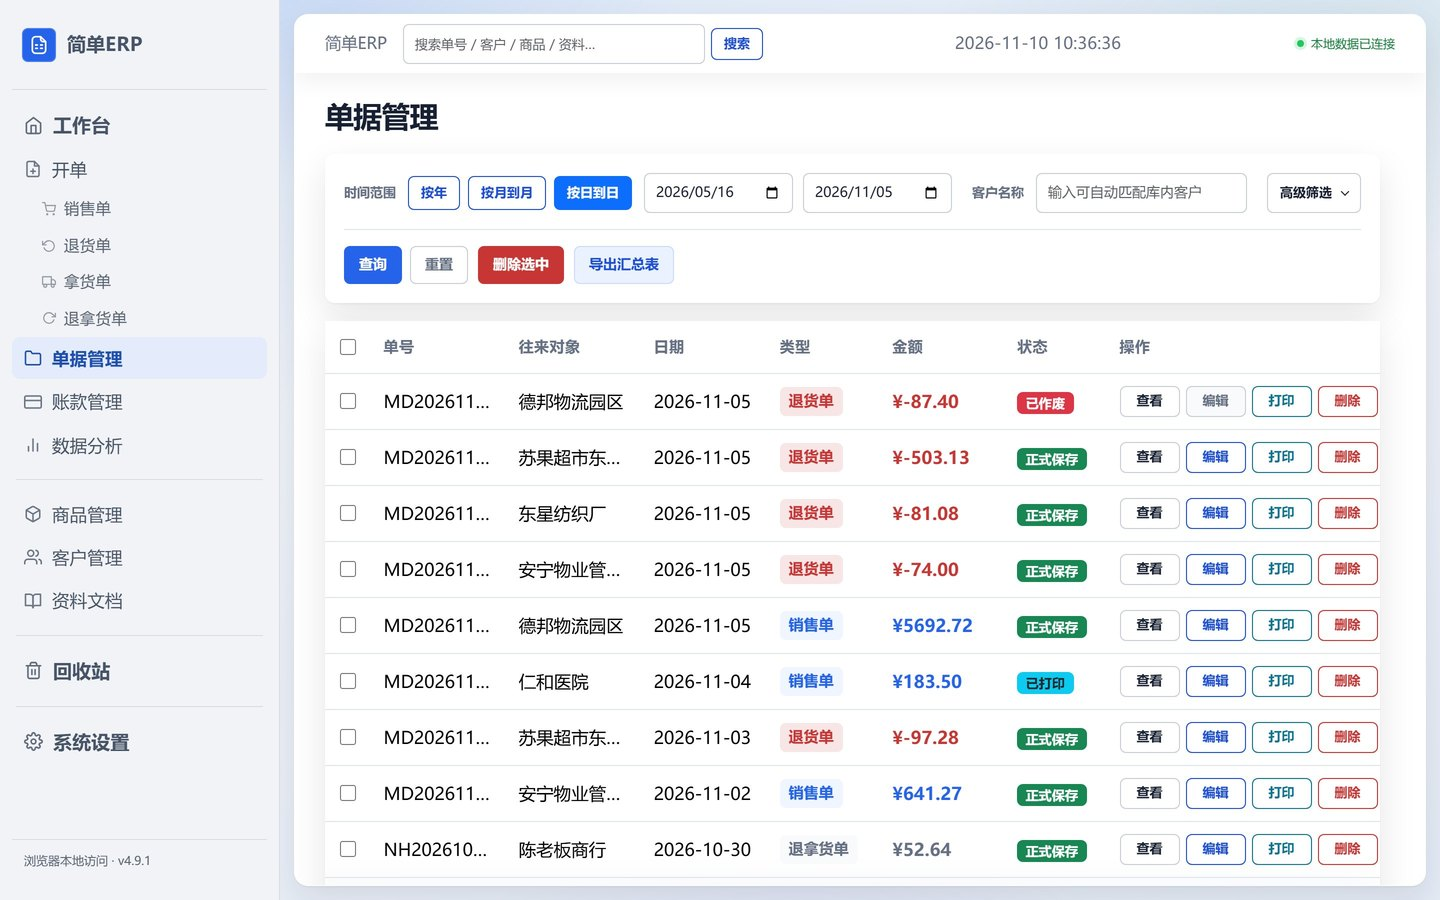
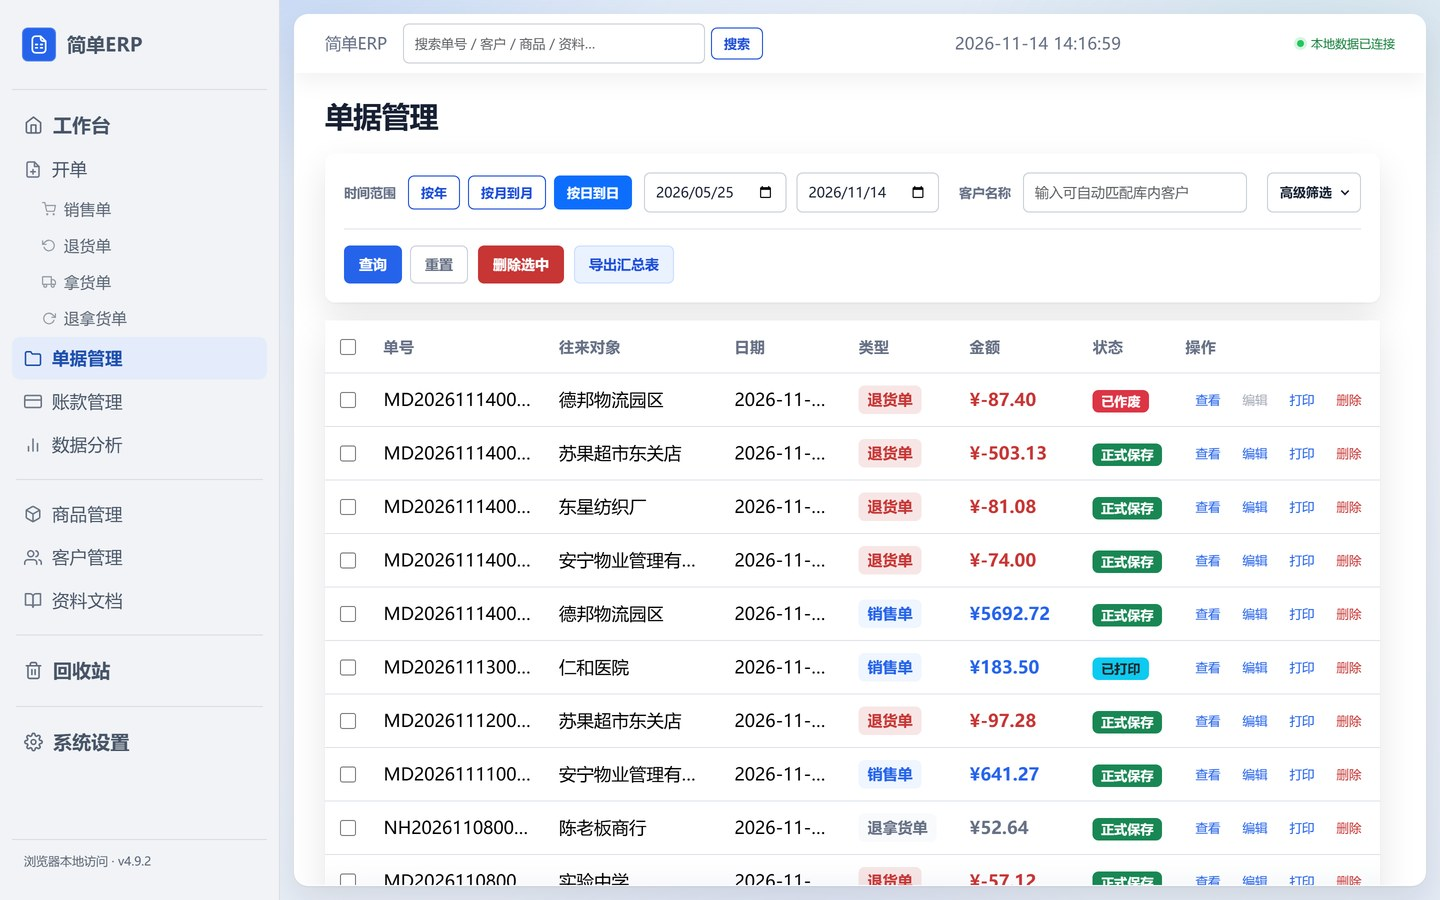
docs(readme): 版本改 v4.9.2，补行操作说明；单据/商品截图按演示数据重拍
行操作改为密集纯文字按钮后，README 里 shot-orders / shot-products 已与实际界面不符，
用 packaging/seed_demo_data.py 生成的 200 条出厂演示数据在隔离实例上重拍
（单号 MD20261114*，与门店真实账本 MD20261018* 物理隔离）。

diff --git a/README.md b/README.md
@@ -23,7 +23,7 @@
 <td width="50%"><img src="docs/images/shot-entry.jpg" alt="开单"><br><sub><b>开单</b> · 四类单据同一套录入流程，单价随客户走</sub></td>
 </tr>
 <tr>
-<td><img src="docs/images/shot-orders.jpg" alt="单据管理"><br><sub><b>单据管理</b> · 类型/状态/日期筛选，标签与金额同色</sub></td>
+<td><img src="docs/images/shot-orders.jpg" alt="单据管理"><br><sub><b>单据管理</b> · 类型/状态/日期筛选；行操作四个动作全平铺</sub></td>
 <td><img src="docs/images/shot-accounts.jpg" alt="账款管理"><br><sub><b>账款管理</b> · 客户余额与往来流水</sub></td>
 </tr>
 <tr>
@@ -37,6 +37,9 @@
 </table>
 
 > 截图为绿色版自带的 200 条出厂演示数据，与门店真实账本物理隔离。
+>
+> 列表行操作自 v4.9.2 起改为**密集纯文字按钮**：查看 / 编辑 / 打印 / 删除 四个动作全部平铺可见，
+> 不做 ⋯ 折叠；静止态无描边，悬停才出淡底，避免按钮框抢走正文注意力。
 
 ---
 
@@ -296,7 +299,7 @@ docs/                     需求、开发、打包说明、界面截图
 
 ## 版本
 
-当前源码版本以根目录 [`VERSION`](VERSION) 为准：**v4.9.1**；安卓原生端版本见 [`native/VERSION`](native/VERSION)：**1.4.12**。
+当前源码版本以根目录 [`VERSION`](VERSION) 为准：**v4.9.2**；安卓原生端版本见 [`native/VERSION`](native/VERSION)：**1.4.12**。
 
 逐版本的交付内容、验收证据与已知边界见 [CHANGELOG](CHANGELOG.md)；已发布版本见 [Releases](https://github.com/Astyyym/simple-erp/releases)。
 
